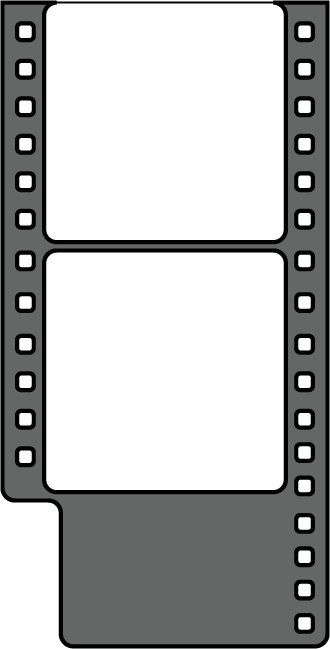
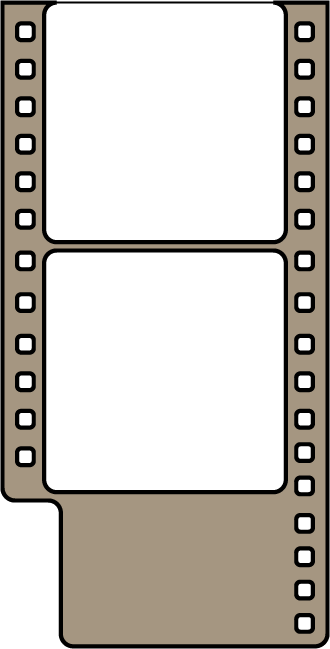
loco

diff --git a/public/stylesheets/style.css b/public/stylesheets/style.css
@@ -1,7 +1,7 @@
 @import url('https://fonts.googleapis.com/css2?family=IBM+Plex+Sans:ital,wght@0,100;0,200;0,300;0,400;0,500;0,600;0,700;1,100;1,200;1,300;1,400;1,500;1,600;1,700&display=swap');
 
 body {
-  background-color: #E6E6E6;
+  background-color: #D7E1D1;
   padding: 0px;
   margin: 0;
   font: 14px 'IBM Plex Sans', sans-serif;
@@ -14,7 +14,7 @@ body {
 }
 .search {
   align-items: center;
-  background-color: #E6E6E6;
+  background-color: #D7E1D1;
   border: solid 2px #242424;
   height: 30px;
   border-radius: 8%;
@@ -22,7 +22,7 @@ body {
 }
 .login {
   
-  background-color: #DBB846;
+  background-color: #E47B6A;
 }
 button {
   border: solid 2px #242424;
@@ -35,7 +35,7 @@ button {
 header {
   justify-content: space-between;
   display: flex;
-  background-color: #656666;
+  background-color: #A59681;
   padding: 5px;
   align-items: center;
   height: 70px;
@@ -49,10 +49,9 @@ a {
 }
 
 footer {
-
   height: 100px;
   margin-top: auto;
-  background-color: #656666;
+  background-color: #A59681;
   color: #E6E6E6 ;
 }
 
